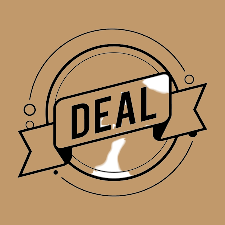
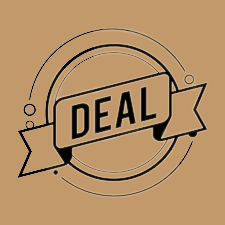
add images with same background

diff --git a/RESTURANT/index.html b/RESTURANT/index.html
@@ -51,7 +51,7 @@
             </ul>
         </li>
 
-        <LI><a href="BURGERS/burgers.html"> <img src="images/bur.png" alt="BURGERS" width="90" height="90" />
+        <LI><a href="BURGERS/burgers.html"> <img src="images/bur-removebg-preview (1).png" alt="BURGERS" width="90" height="90" />
             </a>
             <br /><a href="BURGERS/burgers.html">
                 <h3>BURGERS</h3>
@@ -64,7 +64,7 @@
             </ul>
         </LI>
 
-        <LI><a href="KARAHI/karahi.html"> <img src="images/karahi.jpeg" alt="KARAHI" width="90" height="100" /> </a>
+        <LI><a href="KARAHI/karahi.html"> <img src="images/karahiicon.png" alt="KARAHI" width="90" height="100" /> </a>
             <BR /><a href="KARAHI/karahi.html">
                 <h3>KARAHI</h3>
             </a>
@@ -76,7 +76,7 @@
             </ul>
         </LI>
 
-        <LI><a href="HANDI/handi.html"> <img src="images/handiiconn.jpg" alt="HANDI" width="75" height="90" /> </a>
+        <LI><a href="HANDI/handi.html"> <img src="images/handiiconn-removebg-preview.png" alt="HANDI" width="75" height="90" /> </a>
             <br /><a href="HANDI/handi.html">
                 <h3>HANDI</h3>
             </a>
@@ -88,7 +88,7 @@
             </ul>
         </LI>
 
-        <LI><a href="Baverages/Baverages.html"> <img src="images/baverage icon.webp" alt="Baverages" width="80"
+        <LI><a href="Baverages/Baverages.html"> <img src="images/baverage_icon-removebg-preview.png" alt="Baverages" width="80"
                     height="80" /> </a>
             <BR /><a href="Baverages/Baverages.html">
                 <h3>BEVERAGES</h3>
